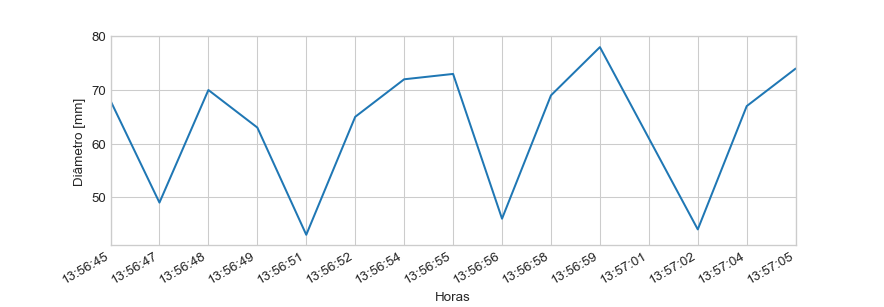
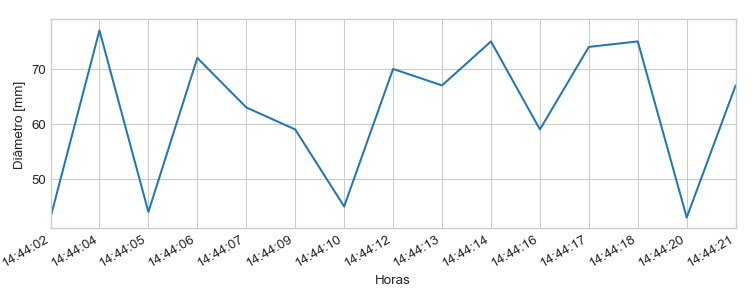
Conserto padding y frame alerta

Changed region(s): [[0.0, 0.0621, 0.9748, 0.9931], [0.0305, 0.8069, 0.0609, 0.869], [0.0, 0.869, 0.0305, 0.931]]

diff --git a/main.py b/main.py
@@ -98,7 +98,6 @@ def CriacaoGrafico(queueTempo, queueDados):
     AlertGraphLabel.after(1000, CriacaoGrafico, queueTempo, queueDados)
 
 def GaugeGraph(numData):
-    os.remove("imagens\gaugeDiametro.png")
     color = ["#ee3d55", "#ee3d55", "#fabd57" , "#fabd57", "#4dab6d", "#4dab6d", "#4dab6d", "#4dab6d", "#4dab6d"]
     #values = [-40, -20, 0, 20, 40, 60, 80, 100]
     #color = ["#4dab6d", "#72c66e",  "#c1da64", "#f6ee54", "#fabd57", "#f36d54", "#ee3d55"]
@@ -144,7 +143,6 @@ def GaugeGraph(numData):
     plt.close()
 
 def LineGraph(numData, current_time, queueTempo, queueDados):
-    os.remove("imagens\graphDiametro.png")
 
     queueDados.append(numData) 
     queueTempo.append(current_time)
@@ -163,6 +161,15 @@ def LineGraph(numData, current_time, queueTempo, queueDados):
 
     #linhaLineGraph.set_data(list(queueTempo), list(queueDados))
     plt.savefig("imagens\graphDiametro.png")
+
+    img = cv2.imread('imagens\graphDiametro.png')
+ 
+    # Cropping an image
+    cropped_image = img[17:307, 0:815]
+    cropped_image = cropped_image[0:290, 60:815]
+ 
+    # Save the cropped image
+    cv2.imwrite("imagens\graphDiametro.png", cropped_image)
     plt.close()
 
 ### THREADS
@@ -259,7 +266,7 @@ frameCentral.columnconfigure(1, weight=1)
 
 # Criação dos frames da parte de cima
 frameVideo = CTkFrame(frameCentral, fg_color="#a4a8ad", border_width=0, corner_radius=15)
-frameVideo.grid(row=0, column=0, padx=(20, 20), pady=(0, 10), sticky='nsew')
+frameVideo.grid(row=0, column=0, padx=(20, 20), pady=(10, 10), sticky='nsew')
 frameVideo.pack_propagate(False)
 frameVideo.bind('<Configure>', Imagem_Video)
 
